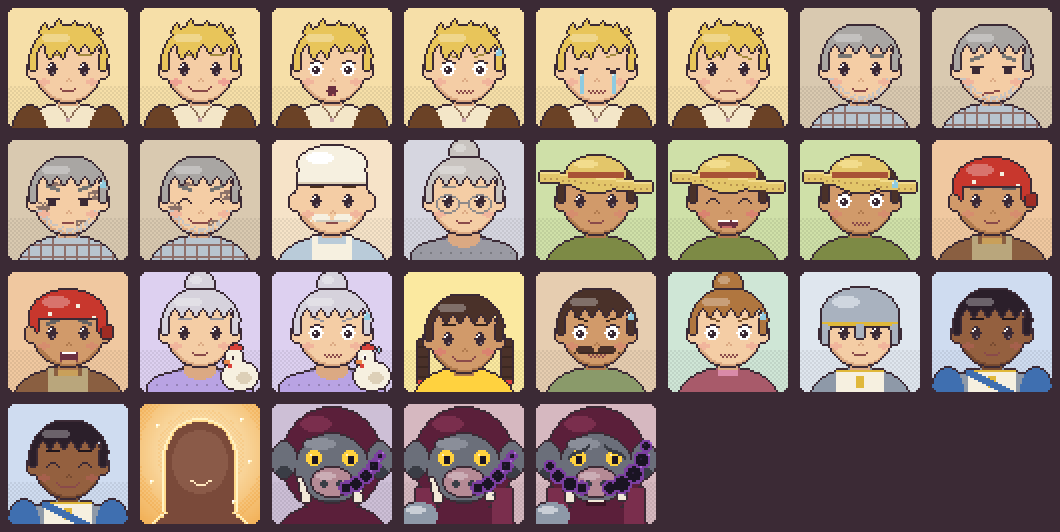
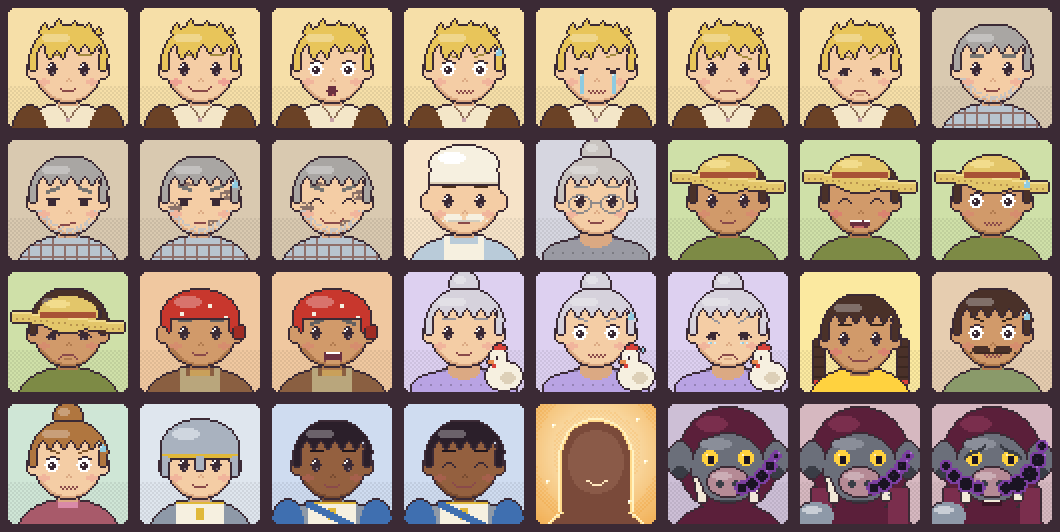
Arte: retratos tristes (Ícaro, Custódia, Tonho), pose segurar_galinha e emote de coração
Claude-Session: https://claude.ai/code/session_01XuAwfEbbDqgikQeCUJhjUS

diff --git a/tools/arte/gerar_retratos.py b/tools/arte/gerar_retratos.py
@@ -26,6 +26,7 @@ EXPR = {
     'riso': ('alta', 'fechado', 'riso', ('corado',)),
     'brava': ('brava', 'normal', 'aberta_brava', ()),
     'suave': ('reta', 'fechado', 'sorriso', ()),
+    'triste': ('triste', 'baixo', 'triste', ()),
 }
 
 FUNDOS = {'icaro': '#f6dfa8', 'pai': '#d9c9b0', 'tonho': '#cfe0a8', 'zefa': '#f0c8a0', 'custodia': '#ddd0f0', 'nina': '#fbe9a0', 'juca': '#f6e3c8',
@@ -136,6 +137,14 @@ def retrato(nome, s, expr, fundo=None):
         elif olho == 'meio':
             c.ell(ex, ey + 1, 2.5, 2.5, OLHO)
             c.rect(ex - 3, ey - 2, 7, 2, pele).rect(ex - 3, ey - 1, 7, 1, OLHO)
+        elif olho == 'baixo':          # olhar para baixo, pálpebra pesada
+            c.ell(ex, ey + 2, 2.5, 2.5, OLHO)
+            c.rect(ex - 3, ey - 1, 7, 2, pele)
+            for t in range(-3, 4):
+                c.px(ex + t, ey + 1 - (1 if abs(t) < 3 else 0) + (1 if lado * t > 1 else 0), OLHO)
+            c.px(ex - 1, ey + 3, '#8a7a85')
+            if g('olhos_umidos'):
+                c.px(ex - 2, ey + 5, '#d6eef6').px(ex - 1, ey + 5, '#8fcbe0').px(ex + 1, ey + 5, '#d6eef6')
         elif olho == 'fechado':
             for t in range(-3, 4):
                 c.px(ex + t, ey + (1 if abs(t) > 1 else 0) + (1 if abs(t) > 2 else 0) - 1, OLHO)
@@ -149,7 +158,7 @@ def retrato(nome, s, expr, fundo=None):
         for t in range(-3, 4):
             dy = 0
             if sob == 'triste':
-                dy = int(round(-t * lado * 0.4))
+                dy = int(round(-t * lado * (0.7 if expr == 'triste' else 0.4)))
             if sob == 'brava':
                 dy = int(round(t * lado * 0.45)) + 1
             c.px(ex + t, by_ + dy, sc)
@@ -170,6 +179,9 @@ def retrato(nome, s, expr, fundo=None):
     elif boca == 'tremida':
         for t in range(-4, 5):
             c.px(32 + t, my + (t % 2), bc)
+    elif boca == 'triste':
+        c.rect(29, my, 6, 1, bc).px(28, my + 1, bc).px(35, my + 1, bc).px(27, my + 2, bc).px(36, my + 2, bc)
+        c.rect(30, my + 2, 4, 1, pele_e)
     elif boca == 'firme':
         c.rect(28, my, 8, 1, bc).px(27, my + 1, bc).px(36, my + 1, bc)
     elif boca == 'torta':
@@ -200,6 +212,7 @@ def retrato(nome, s, expr, fundo=None):
 
     # cabelo da frente / chapéu
     def frente(k):
+        nonlocal cy
         ch = g('chapeu')
         topo = cy - 19
         if est != 'careca' and ch not in ('lenco', 'touca', 'elmo'):
@@ -219,6 +232,8 @@ def retrato(nome, s, expr, fundo=None):
             k.rect(13, cy - 8, 4, 10, cab).rect(47, cy - 8, 4, 10, cab)
         if ch == 'palha':
             tor = 3 if g('torto') else 0
+            if g('chapeu_baixo'):
+                cy += 4
             k.ell(32, cy - 12, 15, 9, '#e3c66a')
             for x in range(4, 60):
                 yy = cy - 10 + (x - 32) * tor // 28
@@ -228,6 +243,8 @@ def retrato(nome, s, expr, fundo=None):
                     k.px(x, yy + 3, '#b8944e')
             k.rect(18, cy - 13, 28, 3, '#a85236')
             k.ell(27, cy - 17, 6, 2, '#f2dc8c')
+            if g('chapeu_baixo'):
+                cy -= 4
         elif ch == 'lenco':
             b = g('cor_chapeu', '#c8372d')
             k.ell(32, cy - 7, 19, 13, b)
@@ -374,12 +391,12 @@ def retrato_mae():
 
 
 LISTA = [
-    ('icaro', 'icaro', ['neutro', 'sorriso', 'surpreso', 'medo', 'choro', 'determinado']),
+    ('icaro', 'icaro', ['neutro', 'sorriso', 'surpreso', 'medo', 'choro', 'determinado', 'triste']),
     ('pai', 'pai', ['neutro', 'ranzinza', 'ferido', 'sorriso_fraco']),
     ('juca', 'juca', ['neutro']), ('ermelinda', 'ermelinda', ['neutro']),
-    ('tonho', 'tonho', ['neutro', 'riso', 'medo']),
+    ('tonho', 'tonho', ['neutro', 'riso', 'medo', 'triste']),
     ('zefa', 'zefa', ['neutro', 'brava']),
-    ('custodia', 'custodia', ['neutro', 'medo']),
+    ('custodia', 'custodia', ['neutro', 'medo', 'triste']),
     ('nina', 'nina', ['neutro']),
     ('aldeao', 'sobrevivente_1', ['medo']), ('aldea', 'sobrevivente_2', ['medo']),
     ('soldado', 'soldado_1', ['neutro']),
@@ -397,7 +414,11 @@ def todos():
             s['sobr_grossa'] = True
         for e in exprs:
             ee = 'sorriso' if (nome, e) == ('nina', 'neutro') else e
-            r[f'{nome}_{e}'] = retrato(nome, s, ee)
+            s2 = dict(s)
+            if e == 'triste':
+                s2['olhos_umidos'] = nome == 'custodia'
+                s2['chapeu_baixo'] = nome == 'tonho'
+            r[f'{nome}_{e}'] = retrato(nome, s2, ee)
     r['mae_silhueta'] = retrato_mae()
     r['cali_soldado'] = retrato_cali()
     r['toucim_neutro'] = retrato_cali(True)

diff --git a/tools/arte/boneco.py b/tools/arte/boneco.py
@@ -110,13 +110,13 @@ def boneco(s, d='down', f=0, pose=None):
     bob = 1 if f in (1, 3) else 0
     TH, LH, FH = (5, 2, 1) if cr else (7, 3, 2)
     bra = 'baixo'
-    if pose in ('ajoelhar', 'sentado', 'sentado_fechado', 'beber'):
+    if pose in ('ajoelhar', 'sentado', 'sentado_fechado', 'beber', 'galinha_sentado', 'galinha_sentado2'):
         LH, FH = 1, 1
     if pose in ('agachar', 'encolhido'):
         TH, LH, FH = 5, 0, 1
     if pose in ('colher', 'erguer', 'erguer2', 'alerta'):
         bra = 'cima'
-    if pose in ('conjurar', 'conjurar2', 'brilho', 'brilho2', 'colar', 'colar2', 'segurar', 'livro', 'beber', 'caixa', 'entregar', 'varrer', 'carimbar', 'empurrar'):
+    if pose in ('conjurar', 'conjurar2', 'brilho', 'brilho2', 'colar', 'colar2', 'segurar', 'livro', 'beber', 'caixa', 'entregar', 'varrer', 'carimbar', 'empurrar', 'galinha', 'galinha2', 'galinha_sentado', 'galinha_sentado2'):
         bra = 'frente'
     hy = 23 - (10 + TH + LH + FH) + bob + (1 if pose in ('encolhido', 'erguer2') else 0)
     by = hy + 10
@@ -307,6 +307,20 @@ def boneco(s, d='down', f=0, pose=None):
         c.px(7, by + 2, '#c9a3a8').px(8, by + 2, '#8a6a55')
     if pose == 'livro' and d == 'down':
         c.rect(5, by + 2, 6, 4, '#a52a33').rect(5, by + 2, 6, 1, '#c8545a').rect(10, by + 3, 1, 3, '#f6f0e0')
+    if pose in ('galinha', 'galinha2', 'galinha_sentado', 'galinha_sentado2'):     # a Pamonha no colo (respira: 2 quadros)
+        r2 = 1 if pose.endswith('2') else 0
+        gb, ge = '#f6f0e0', '#ddd0b8'
+        if d == 'down':
+            c.rect(4, by + 2 - r2, 8, 5 + r2, OUT).rect(5, by + 1 - r2, 4, 2, OUT)
+            c.rect(5, by + 3 - r2, 6, 3 + r2, gb).rect(6, by + 2 - r2, 2, 1, gb).rect(7, by + 5, 3, 1, ge)
+            c.px(6, by + 1 - r2, '#d8413a').px(7, by + 1 - r2, '#d8413a').px(6, by + 3 - r2, OLHO).px(5, by + 4 - r2, '#e8884a')
+            c.px(4, by + 5, pele).px(11, by + 5, pele)
+        elif d == 'left':
+            c.rect(0, by + 1 - r2, 6, 6 + r2, OUT)
+            c.rect(1, by + 3 - r2, 4, 3 + r2, gb).rect(1, by + 2 - r2, 2, 1, gb).px(1, by + 1 - r2, '#d8413a')
+            c.px(0, by + 3 - r2, '#e8884a').px(1, by + 3 - r2, OLHO).px(3, by + 5, ge).rect(3, by + 4, 2, 1, pele)
+        else:
+            c.px(3, by + 4 - r2, gb).px(12, by + 3 - r2, gb).px(12, by + 4 - r2, ge)
     if pose == 'beber' and d == 'down':
         c.rect(6, by - 1, 4, 3, '#f3e6c8').px(10, by, '#f3e6c8').rect(6, by - 1, 4, 1, '#ddd0b8')
     if pose in ('caixa', 'entregar') and d == 'down':

diff --git a/tools/arte/gerar_sprites.py b/tools/arte/gerar_sprites.py
@@ -226,12 +226,19 @@ def poses():
          b(I, 'erguer'), b(I, 'erguer2'),                     # 11-12
          b(I, 'encolhido'),                                   # 13
          b(I, 'colar'), b(I, 'colar2'),                       # 14-15
-         b(I, 'segurar')]                                     # 16
+         b(I, 'segurar'),                                     # 16
+         b(I, 'galinha'), b(I, 'galinha2'),                   # 17-18 segurar_galinha (frente)
+         b(I, 'galinha', 'left'), b(I, 'galinha2', 'left'),   # 19-20 esquerda
+         b(I, 'galinha', 'right'), b(I, 'galinha2', 'right'), # 21-22 direita
+         b(I, 'galinha', 'up'), b(I, 'galinha2', 'up'),       # 23-24 costas
+         b(I, 'galinha_sentado'), b(I, 'galinha_sentado2')]   # 25-26 sentado
     A = lambda fr, rate=4, rep=-1: dict(frames=fr, frameRate=rate, repeat=rep)
     out['icaro_poses'] = (tira(q), 16, 24, 'icaro', {
         'acordar': A([0, 0, 1], 2, 0), 'esconder_livro': A([2]), 'colher': A([3, 4, 3], 5, 0), 'agachar': A([5]), 'ajoelhar': A([6]),
         'conjurar': A([7, 8], 4), 'conjurar_brilho': A([9, 10], 5), 'erguer_viga': A([11, 12], 3), 'encolhido': A([13]),
-        'colar_brilho': A([14, 15], 5), 'segurar_colar': A([16])})
+        'colar_brilho': A([14, 15], 5), 'segurar_colar': A([16]),
+        'segurar_galinha': A([17, 18], 2), 'segurar_galinha_esquerda': A([19, 20], 2), 'segurar_galinha_direita': A([21, 22], 2),
+        'segurar_galinha_costas': A([23, 24], 2), 'segurar_galinha_sentado': A([25, 26], 2)})
     q = [b(P, 'sentado'), b(P, 'beber')]
     out['pai_poses'] = (tira(q), 16, 24, 'pai', {'sentado': A([0]), 'beber_cafe': A([0, 1, 1, 0], 2, 0)})
     q = [deitar(b(P, 'sentado_fechado')), deitar(b(P, 'sentado')), deitar(b(P, 'caixa')), deitar(b(P, 'empurrar')), deitar(b(P, 'entregar'))]
@@ -313,6 +320,9 @@ def icones():
         e.rect(x, 6, 2, 2, '#6b5560')
     r['emote_reticencias'] = e
     e = balao(); e.px(8, 3, '#6fb0c8').rect(7, 4, 2, 2, '#6fb0c8').rect(6, 6, 4, 3, '#6fb0c8').rect(7, 9, 2, 1, '#6fb0c8').px(7, 6, '#d6eef6'); r['emote_suor'] = e
+    e = balao()
+    e.art(4, 3, ['.xx.xx..', 'xoxxxxx.', 'xxxxxxx.', '.xxxxx..', '..xxx...', '...x....'], {'x': '#e2564a', 'o': '#fbe3ec'})
+    r['emote_coracao'] = e
     return r
 
 

diff --git a/docs/status/arte.md b/docs/status/arte.md
@@ -50,6 +50,15 @@ python3 tools/audio/sfx.py [id...]      # assets/audio/sfx (OGG)
 - Teste de navegador (`scripts/testar-navegador.mjs`, Chromium 844×390 com toque): todas as verificações OK com os
   assets novos; `npm test`: 241 testes OK. Capturas em `docs/arte/capturas/` (`mock_*.png`, `sprites.png`, `retratos.png`, `jogo/`).
 
+## Pedidos pós-teste do autor (feitos)
+
+- Retratos de tristeza leve, sem lágrimas: `icaro_triste`, `custodia_triste` (olhos úmidos), `tonho_triste`
+  (chapéu mais baixo). Agora são 32 retratos.
+- `icaro_poses`: `segurar_galinha` (de pé, de frente, 2 quadros de respiração) e variações
+  `segurar_galinha_esquerda`, `_direita`, `_costas` e `_sentado`. A coordenação pediu de pé e o GDD (seção de
+  assets) fala em sentado: há as duas, a narrativa escolhe.
+- `assets/images/emote_coracao.png` (16×16).
+
 ## Pedidos ao motor (não editei `src/`)
 
 1. **Poses (`anim`)**: o motor toca `<sprite>:<anim>` se a animação existir, mas não a cria. Proposta: no Preload,
